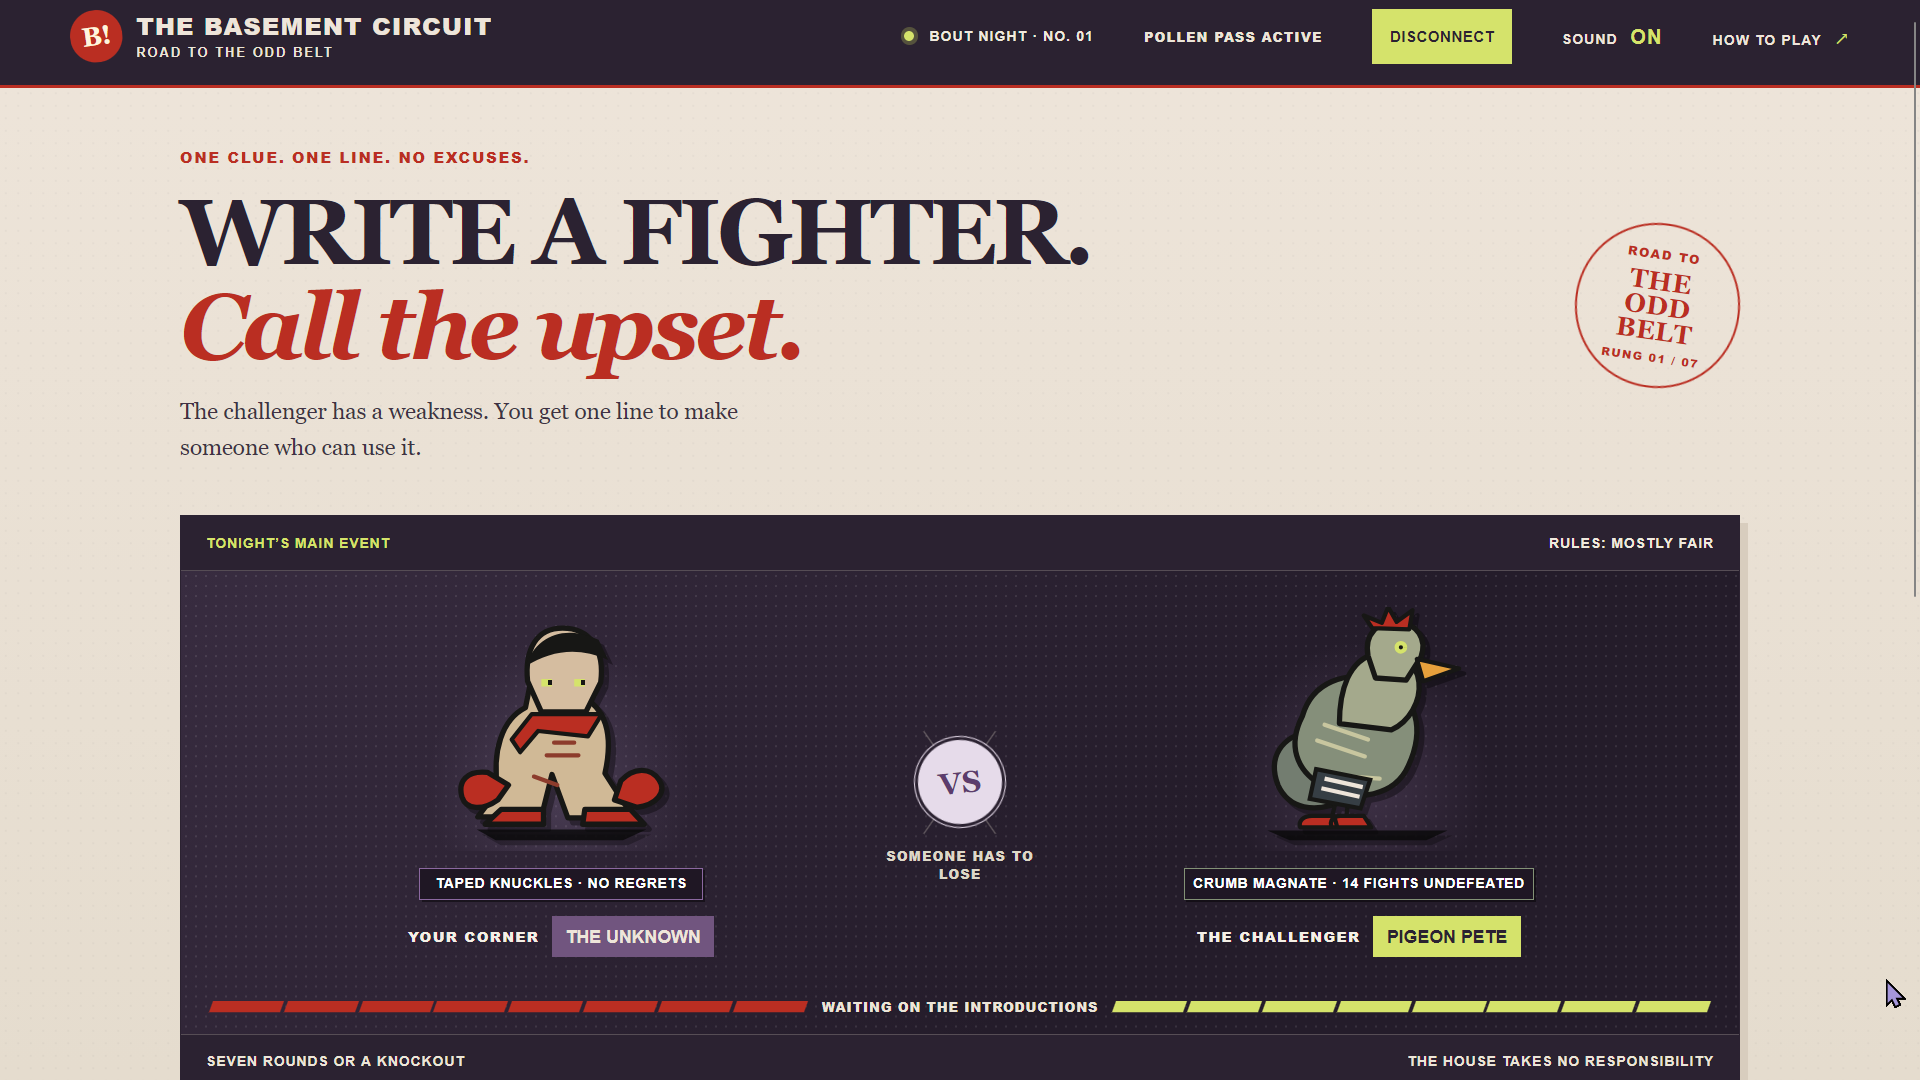
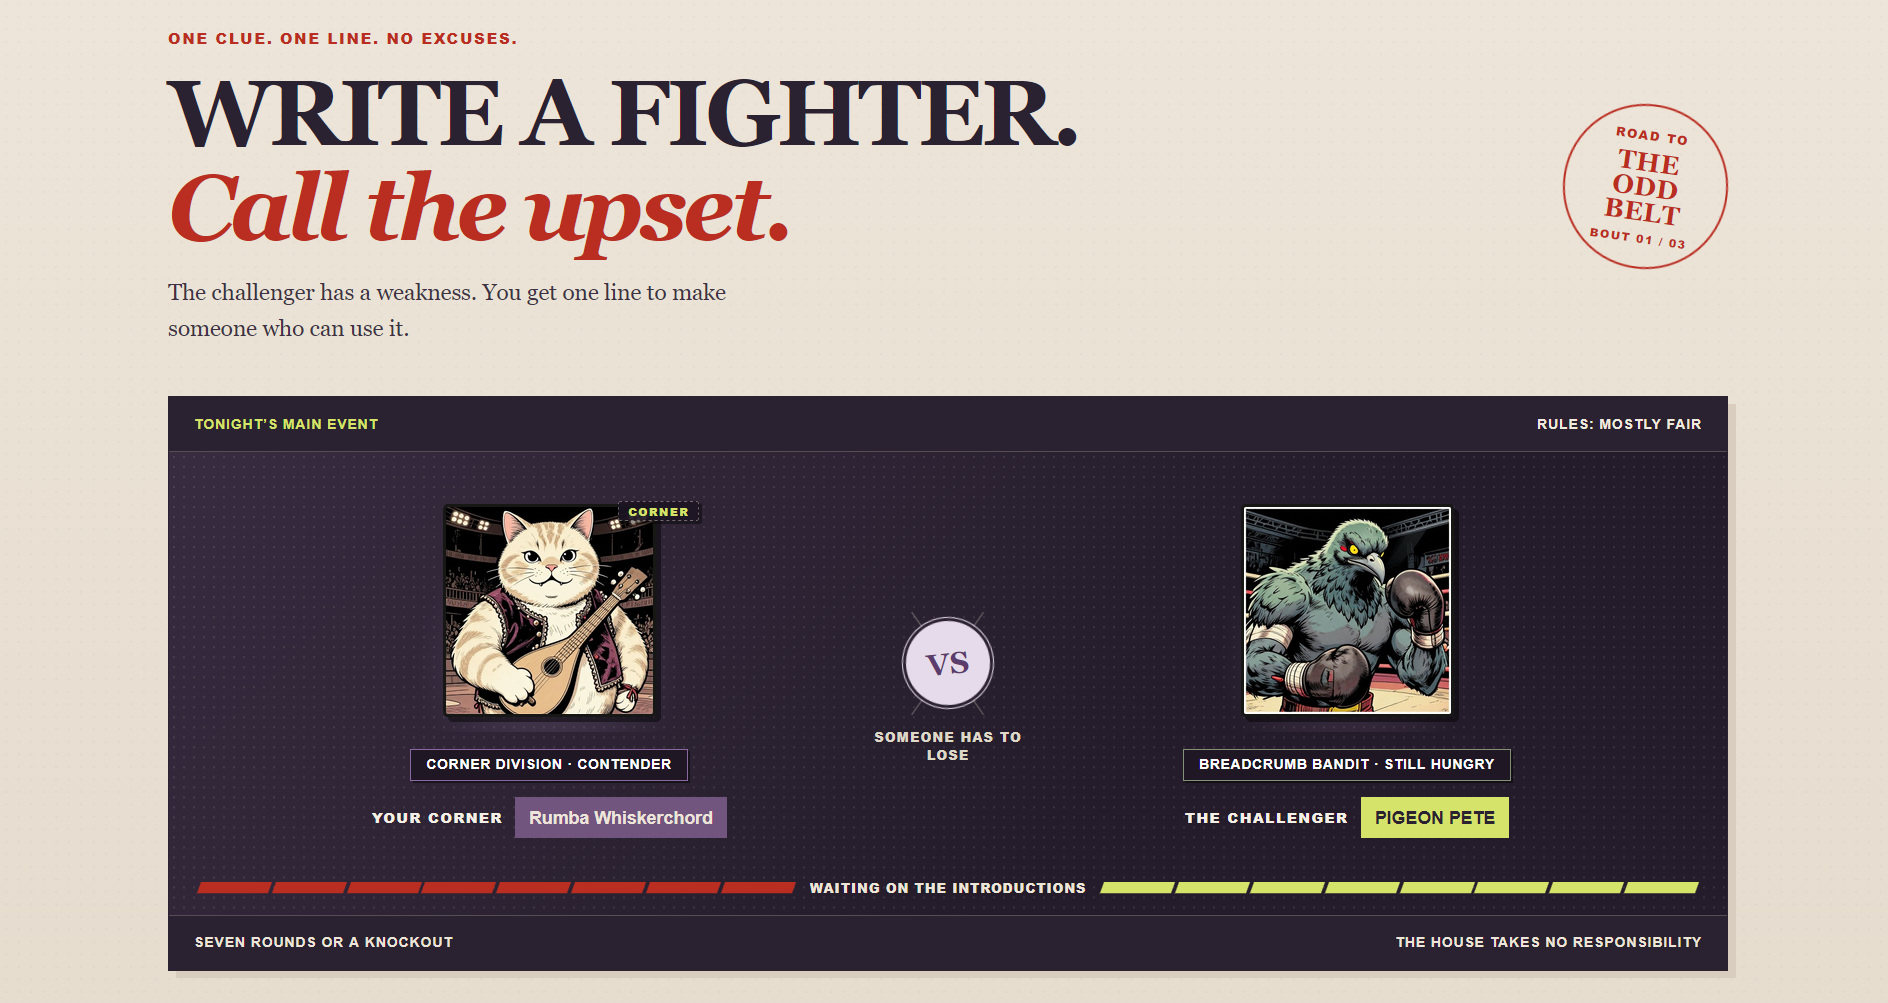
feat(arena): cite 3-round series outcome on hero card
- update top and bottom strips with series score and champion name

- transform centre vs circle to show series score and champion caption

- highlight winning corner and clarify series verdict over bout 3 status

- include updated webp preview screenshots

diff --git a/src/main.js b/src/main.js
@@ -52,6 +52,12 @@ const challengerTraits = $("[data-challenger-traits]");
 const challengerMoves = $("[data-challenger-moves]");
 const resultStampWrap = $("[data-result-stamp-wrap]");
 const resultStamp = $("[data-result-stamp]");
+const boutStripLeft = $("[data-bout-strip-left]");
+const boutStripRight = $("[data-bout-strip-right]");
+const stageMark = $("[data-stage-mark]");
+const stageCaption = $("[data-stage-caption]");
+const boutFooterLeft = $("[data-bout-footer-left]");
+const boutFooterRight = $("[data-bout-footer-right]");
 const forgePanel = $("[data-forge-panel]");
 const forgeHeading = $("[data-forge-heading]");
 const forgeStep = $("[data-forge-step]");
@@ -307,6 +313,30 @@ returnCornerButton?.addEventListener("click", () => {
         if (stageAwayArt && defaultAwaySvg) {
             stageAwayArt.innerHTML = defaultAwaySvg;
         }
+        if (boutStripLeft) boutStripLeft.textContent = "TONIGHT’S MAIN EVENT";
+        if (boutStripRight) {
+            boutStripRight.textContent = "RULES: MOSTLY FAIR";
+            boutStripRight.style.color = "";
+        }
+        if (stageMark) {
+            stageMark.textContent = "VS";
+            stageMark.className = "stage-mark";
+        }
+        if (stageCaption) {
+            stageCaption.textContent = "SOMEONE HAS TO LOSE";
+            stageCaption.className = "stage-caption";
+        }
+        if (boutFooterLeft) boutFooterLeft.textContent = "SEVEN ROUNDS OR A KNOCKOUT";
+        if (boutFooterRight) boutFooterRight.textContent = "THE HOUSE TAKES NO RESPONSIBILITY";
+        const cornerHome = $(".corner-home");
+        const cornerAway = $(".corner-away");
+        cornerHome?.classList.remove("is-series-winner", "is-series-loser");
+        cornerAway?.classList.remove("is-series-winner", "is-series-loser");
+        const healthStatus = $(".health-row span");
+        if (healthStatus) {
+            healthStatus.textContent = "WAITING ON THE INTRODUCTIONS";
+            healthStatus.className = "";
+        }
         const cornerHomeLabel = $(".corner-home .corner-label b");
         if (cornerHomeLabel) cornerHomeLabel.textContent = "THE UNKNOWN";
         if (seriesStamp) seriesStamp.textContent = `BOUT 01 / 03`;
@@ -454,6 +484,23 @@ function showDossier(line, fighter, fromPollinations = false) {
     if (scoutButton) {
         scoutButton.disabled = true;
     }
+    if (boutStripLeft) boutStripLeft.textContent = "TONIGHT’S MAIN EVENT";
+    if (boutStripRight) {
+        boutStripRight.textContent = "RULES: MOSTLY FAIR";
+        boutStripRight.style.color = "";
+    }
+    if (stageMark) {
+        stageMark.textContent = "VS";
+        stageMark.className = "stage-mark";
+    }
+    if (stageCaption) {
+        stageCaption.textContent = "SOMEONE HAS TO LOSE";
+        stageCaption.className = "stage-caption";
+    }
+    if (boutFooterLeft) boutFooterLeft.textContent = "SEVEN ROUNDS OR A KNOCKOUT";
+    if (boutFooterRight) boutFooterRight.textContent = "THE HOUSE TAKES NO RESPONSIBILITY";
+    $(".corner-home")?.classList.remove("is-series-winner", "is-series-loser");
+    $(".corner-away")?.classList.remove("is-series-winner", "is-series-loser");
     $("[data-fighter-name]").textContent = fighter.name;
     $(".corner-home .corner-label b").textContent = fighter.name;
     if (homeHpVal) homeHpVal.textContent = `${fighter.maxHp} HP`;
@@ -662,6 +709,38 @@ async function playFight() {
         startFightButton.innerHTML = 'Series Complete <span aria-hidden="true">✓</span>';
         const seriesWon = seriesWins > seriesLosses;
         const seriesVerdict = seriesWon ? "SERIES WON" : "SERIES LOST";
+        const winnerName = seriesWon ? (currentFighter?.name?.toUpperCase() || "YOU") : "PIGEON PETE";
+        const score = `${seriesWins}-${seriesLosses}`;
+
+        if (boutStripLeft) boutStripLeft.textContent = `SERIES CONCLUDED · 3 BOUTS`;
+        if (boutStripRight) {
+            boutStripRight.textContent = `CHAMPION: ${winnerName} (${score})`;
+            boutStripRight.style.color = seriesWon ? "var(--acid)" : "#f77a63";
+        }
+        if (stageMark) {
+            stageMark.textContent = score;
+            stageMark.className = `stage-mark ${seriesWon ? "is-series-win" : "is-series-loss"}`;
+        }
+        if (stageCaption) {
+            stageCaption.textContent = seriesWon ? "SERIES CHAMPION" : "PETE RETAINS BELT";
+            stageCaption.classList.add("is-series-verdict");
+        }
+        if (healthStatus) {
+            healthStatus.textContent = `🏆 ${winnerName} WINS THE SERIES (${score}) · BOUT 3: ${bout.winner.toUpperCase()} (${bout.verdict})`;
+            healthStatus.className = `is-series-verdict ${seriesWon ? "is-win" : "is-loss"}`;
+        }
+        if (cornerHome && cornerAway) {
+            if (seriesWon) {
+                cornerHome.classList.add("is-series-winner");
+                cornerAway.classList.add("is-series-loser");
+            } else {
+                cornerAway.classList.add("is-series-winner");
+                cornerHome.classList.add("is-series-loser");
+            }
+        }
+        if (boutFooterLeft) boutFooterLeft.textContent = `FINAL STANDING: ${seriesWins} WINS · ${seriesLosses} LOSSES`;
+        if (boutFooterRight) boutFooterRight.textContent = seriesWon ? "ODD BELT CLAIMED · CONTENDER TRIUMPHS" : "HOUSE RETAINS THE PURSE";
+
         if (matchmakerSub) matchmakerSub.textContent = `SERIES CONCLUDED · ${seriesWins}W - ${seriesLosses}L`;
         if (seriesStamp) seriesStamp.textContent = `${seriesWins}W - ${seriesLosses}L`;
         if (returnCornerButton) {

diff --git a/styles.css b/styles.css
@@ -121,6 +121,39 @@ h1 em { color: var(--red); font: italic 700 1em/1 Georgia, serif; letter-spacing
 .stage-wire-two { transform: rotate(-35deg); }
 .stage-mark { display: grid; width: 72px; height: 72px; place-items: center; background: #e6dbea; color: #5c3c6d; border: 3px solid var(--ink); outline: 1px solid #e6dbea; border-radius: 50%; font: 700 24px/.8 Georgia, serif; transform: rotate(-6deg); }
 .stage-caption { position: absolute; top: 88px; width: 140px; color: #ded8c8; text-align: center; font-size: 10px; font-weight: 800; letter-spacing: .12em; }
+.stage-mark.is-series-win {
+    background: #24542d;
+    color: var(--acid);
+    border-color: #438751;
+    outline: 2px solid var(--acid);
+    font: 900 22px/1 Arial, sans-serif;
+    transform: rotate(0deg) scale(1.08);
+    box-shadow: 0 0 16px rgba(213, 227, 107, 0.45);
+}
+.stage-mark.is-series-loss {
+    background: var(--red);
+    color: #ffffff;
+    border-color: #f77a63;
+    outline: 2px solid #f77a63;
+    font: 900 22px/1 Arial, sans-serif;
+    transform: rotate(0deg) scale(1.08);
+    box-shadow: 0 0 16px rgba(186, 46, 34, 0.45);
+}
+.stage-caption.is-series-verdict {
+    color: var(--acid);
+    font-weight: 900;
+    letter-spacing: .14em;
+}
+.corner.is-series-winner .fighter-art {
+    filter: drop-shadow(0 0 14px rgba(213, 227, 107, 0.45));
+}
+.corner.is-series-winner .corner-label b {
+    box-shadow: 0 0 12px var(--acid);
+}
+.corner.is-series-loser {
+    opacity: .72;
+    filter: grayscale(0.2);
+}
 .pigeon-art { background: radial-gradient(ellipse at center 70%, #9b7baa40, transparent 56%); }
 .pigeon-wing { fill: #737d70; stroke: #171715; stroke-width: 5; stroke-linejoin: round; }
 .pigeon-body { fill: #858f7a; stroke: #171715; stroke-width: 5; }
@@ -139,6 +172,21 @@ h1 em { color: var(--red); font: italic 700 1em/1 Georgia, serif; letter-spacing
 .health-away { flex-direction: row-reverse; }
 .health-row div.health-away i.pip-on { background: var(--acid); opacity: 1; }
 .health-row span { color: #ece5d8; font-size: 10px; font-weight: 800; letter-spacing: .1em; text-align: center; }
+.health-row span.is-series-verdict {
+    padding: 4px 14px;
+    background: #1c1422;
+    border: 1px solid var(--acid);
+    border-radius: 3px;
+    color: var(--acid);
+    font-weight: 900;
+    letter-spacing: .12em;
+    box-shadow: 0 0 12px rgba(213, 227, 107, 0.3);
+}
+.health-row span.is-series-verdict.is-loss {
+    border-color: var(--red);
+    color: #ff9d8f;
+    box-shadow: 0 0 12px rgba(186, 46, 34, 0.3);
+}
 .bout-footer { border-top: 1px solid #f0e8d638; color: #ece5d8; }
 .ringside { display: grid; grid-template-columns: minmax(250px, .74fr) minmax(0, 1.7fr); gap: 24px; margin: 42px 0 0; }
 .scout-card { position: relative; min-height: 210px; padding: 24px; overflow: hidden; background: #e7dce9; transform: rotate(-.35deg); box-shadow: 3px 4px 0 #c5b3ca; }
@@ -1053,6 +1101,7 @@ h1 em { color: var(--red); font: italic 700 1em/1 Georgia, serif; letter-spacing
     .corner-label b { font-size: 12px; }
     .health-row { right: 12px; left: 12px; grid-template-columns: 1fr 1fr; gap: 10px; }
     .health-row span { display: none; }
+    .health-row span.is-series-verdict { display: block !important; font-size: 9px; grid-column: 1 / -1; margin-top: 6px; }
     .bout-strip, .bout-footer { min-height: 42px; align-items: flex-start; flex-direction: column; gap: 5px; padding: 10px 12px; font-size: 10px; letter-spacing: .05em; }
     .ringside { grid-template-columns: 1fr; gap: 18px; margin-top: 32px; }
     .scout-card { min-height: 0; padding: 22px; }

diff --git a/index.html b/index.html
@@ -46,7 +46,7 @@
             </section>
 
             <section class="bout" aria-label="Current challenger">
-                <div class="bout-strip"><span>TONIGHT’S MAIN EVENT</span><span>RULES: MOSTLY FAIR</span></div>
+                <div class="bout-strip"><span data-bout-strip-left>TONIGHT’S MAIN EVENT</span><span data-bout-strip-right>RULES: MOSTLY FAIR</span></div>
                 <div class="fight-stage">
                     <article class="corner corner-home" aria-label="Your corner">
                         <div class="fighter-art home-art" data-stage-home-art aria-label="Contender ring avatar">
@@ -72,8 +72,8 @@
                     <div class="stage-centre" aria-hidden="true">
                         <div class="stage-wire stage-wire-one"></div>
                         <div class="stage-wire stage-wire-two"></div>
-                        <div class="stage-mark">VS</div>
-                        <span class="stage-caption">SOMEONE HAS TO LOSE</span>
+                        <div class="stage-mark" data-stage-mark>VS</div>
+                        <span class="stage-caption" data-stage-caption>SOMEONE HAS TO LOSE</span>
                     </div>
 
                     <article class="corner corner-away" aria-label="Challenger, Pigeon Pete">
@@ -104,7 +104,7 @@
                         <div class="health-away"><i class="pip-on"></i><i class="pip-on"></i><i class="pip-on"></i><i class="pip-on"></i><i class="pip-on"></i><i class="pip-on"></i><i class="pip-on"></i><i class="pip-on"></i></div>
                     </div>
                 </div>
-                <div class="bout-footer"><span>SEVEN ROUNDS OR A KNOCKOUT</span><span>THE HOUSE TAKES NO RESPONSIBILITY</span></div>
+                <div class="bout-footer"><span data-bout-footer-left>SEVEN ROUNDS OR A KNOCKOUT</span><span data-bout-footer-right>THE HOUSE TAKES NO RESPONSIBILITY</span></div>
             </section>
 
             <section class="ringside" aria-label="Prepare your fighter">
